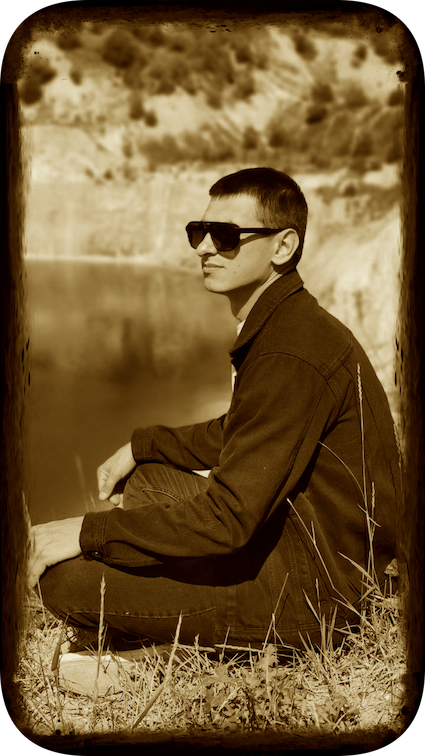
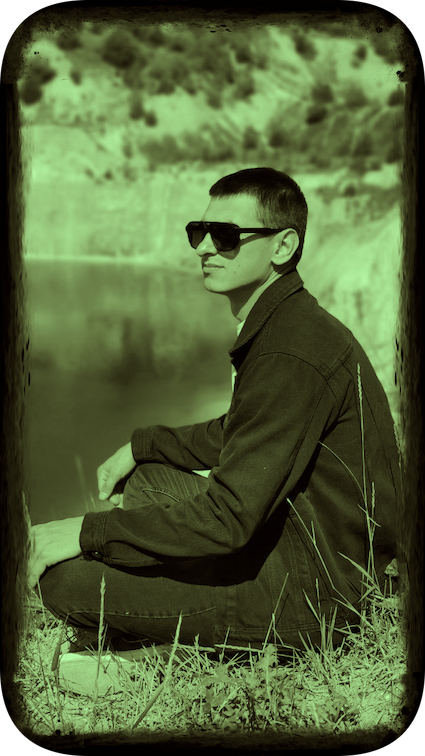
fix:create new background fix:fixed errors

diff --git a/style.css b/style.css
@@ -2,11 +2,11 @@
 
 
 header {
+  padding-top: 2px;
   height: 4rem;
   text-align-last: center;
-  border: 1px solid black;
-  color: rgb(129, 98, 45);
-  background: rgb(46, 26, 1);
+  color: rgb(240 239 238);
+ background: rgb(45 129 113);
 }
 
 .mainBlock {
@@ -23,7 +23,7 @@ header {
   flex-direction: column;
   justify-content: flex-start;
   flex-wrap: nowrap;
-  background: rgb(129, 98, 45);
+  background:rgb(45 129 113);
 }
 
 .imageClass {
@@ -41,12 +41,12 @@ header {
 }
 
 .info {
-  
-  height: 2.5em;
-  color: rgb(129, 98, 45);
+  height: 2em;
+  color: white;
   border: 1px solid black;
   border-radius: 14px;
-  background: rgb(46,26,1);
+  background: rgb(176 202 158);
+  padding-left:10px;
 }
 
 .info p {
@@ -55,7 +55,8 @@ header {
 
 .info a {
   margin-left: 10px;
-  color: rgb(129, 98, 45);
+  color:white;
+  text-decoration: none;
 }
 
 .blockRight {
@@ -71,51 +72,47 @@ header {
 
 .rightContainer {
   padding: 0.5em;
-  background: rgb(255, 166, 0);
+  background: rgb(45 129 113);
 }
 
 .right {
-  border: 1px solid black;
-  border-radius: 14px;
-  color: rgb(255, 166, 0);
-  background: rgb(46, 26, 1);
+  border-radius: 14px;  
+  background: rgb(176 202 158);
   margin: 0.3em 0;
 }
 
 footer {
   height: 3rem;
   text-align-last: center;
-  border: 1px solid black;
   color: rgb(255, 166, 0);
-  background: rgb(46, 26, 1);
+  background:rgb(45 129 113);
 }
 
 .urlssc {
-  border: 1px solid black;
-  border-radius: 14px;
-  color: rgb(255, 166, 0);
-  background: rgb(16, 16, 15);
+  color:white;
+  text-decoration: none;
 }
 
 .imgrss {
-  border: 1px solid black;
   border-radius: 14px;
-  background: rgb(6, 4, 2);
 }
 
 .mygit {
-  border: 1px solid black;
-  border-radius: 14px;
-  color: rgb(255, 166, 0);
-  background: rgb(16, 16, 15);
+  color:white;
+  text-decoration: none;
+  margin-left: 32px;
+
 }
 .rightInfo{
   margin-left: 22px;
+  color: white;
 }
 .codeEx{
   margin-left: -12px;
+  color: white;
 }
 .mrgn{
+  color: white;
   margin-left: 12px;
 
 }

diff --git a/index.html b/index.html
@@ -9,7 +9,7 @@
     <div class="mainBlock">
       <div class="blockLeft">
         <div class="imageClass">
-          <img class="image" src="rsschool-cv/rsschool-cv-html/img/myPhoto.png" alt="photo by Vadim Poberezhny">
+          <img class="image" src="img/ing.png" alt="photo by Vadim Poberezhny">
         </div>
         <nav class="nav">
           <div class="info">Email:</div>
@@ -24,9 +24,6 @@
       </div>
 
       <div class="blockRight">
-        <!-- <div class="right Header">
-        </div> -->
-
         <div class="rightContainer">
           <div class="right Edu">
             <div class="Education"><h2 class="mrgn">Education:</h2></div>
@@ -117,7 +114,7 @@
       </div>
     </div>
     <footer>
-      <img class="imgrss" src="rs_school-og.png" alt="rss">
+      <img class="imgrss" src="img/rs.png" alt="rss">
       <a class="urlssc" href="https://rs.school/js/"
         >© 2022 The Rolling Scopes
       </a>
@@ -125,3 +122,10 @@
     </footer>
   </main>
 </html>
+
+
+
+
+
+
+
